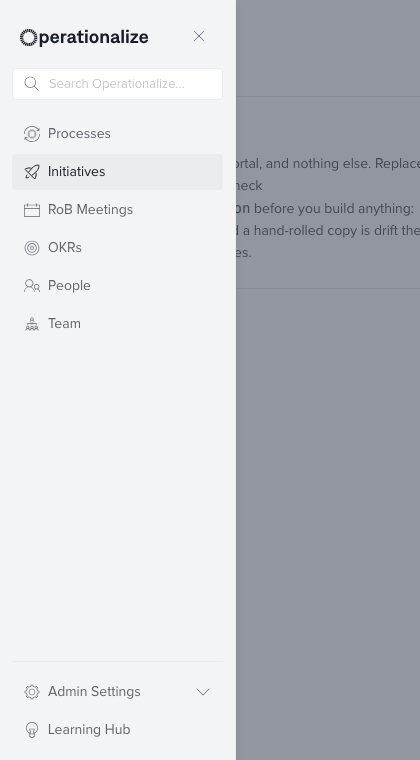
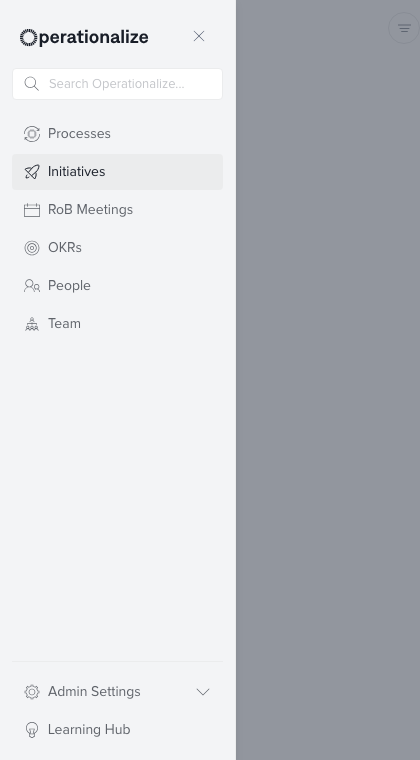
Scaffold stops at the shell; Markdown docs get a reader (#93)
The master prompt used to land a placeholder card in the content region,
and agents filled the space while waiting — the timezone widget came back
with invented names, numbers and rules. The template's content region is
now empty, and the prompt's step 2 says STOP: lint, report the path, and
wait for the feature to be described. Screenshots re-shot from a real
scaffold.

docs/read.html renders AGENTS.md, UXCopy.md and DESIGN.md as a readable
page (kit tokens, sticky TOC, copyable code blocks, .md links rewritten
to stay in the reader). Titled by file name. marked v12.0.2 is vendored
so the page needs no CDN. The home page's Build-with-it cards link to it
extensionless, because serve drops the query string on its .html redirect.

diff --git a/docs/read.html b/docs/read.html
@@ -1,0 +1,279 @@
+<!doctype html>
+<html lang="en">
+<head>
+  <meta charset="utf-8" />
+  <meta name="viewport" content="width=device-width, initial-scale=1" />
+  <title>Reader</title>
+  <link rel="stylesheet" href="../tokens.css" />
+  <link rel="stylesheet" href="../semantic.css" />
+  <link rel="stylesheet" href="../components.css" />
+  <style>
+    /* A reading view for the repo's .md files: read?doc=UXCopy.md.
+       The file stays the source; this page only renders it. One centred column
+       at reading width, a contents rail beside it on wide screens. */
+    body { background: var(--color-surface); }
+
+    .reader-bar {
+      position: sticky; top: 0; z-index: 2;
+      display: flex; align-items: center; justify-content: space-between; gap: var(--spacing-3);
+      padding: var(--spacing-3) var(--spacing-6);
+      background: var(--color-surface);
+      border-bottom: 1px solid var(--color-border);
+      font: var(--type-body-sm);
+    }
+    .crumbs { display: flex; align-items: center; gap: var(--spacing-2); min-width: 0; color: var(--color-text-subtle); }
+    .crumbs a { color: var(--color-text-subtle); text-decoration: none; }
+    .crumbs a:hover { color: var(--color-text); }
+    .crumbs .here { color: var(--color-text); white-space: nowrap; overflow: hidden; text-overflow: ellipsis; }
+    .raw { color: var(--color-text-subtle); text-decoration: none; white-space: nowrap; }
+    .raw:hover { color: var(--color-text); }
+
+    .reader {
+      display: grid;
+      grid-template-columns: minmax(0, 720px);
+      justify-content: center;
+      gap: var(--spacing-12);
+      padding: var(--spacing-12) var(--spacing-6) calc(var(--spacing-12) * 2);
+    }
+    @media (min-width: 1240px) {
+      .reader { grid-template-columns: minmax(0, 720px) 240px; }
+    }
+
+    /* ---- the document ---- */
+    .doc { min-width: 0; color: var(--color-text); font-family: var(--font-sans); font-size: 16px; line-height: 1.65; }
+    .doc > :first-child { margin-top: 0; }
+
+    .doc h1, .doc h2, .doc h3, .doc h4 { position: relative; font-weight: var(--font-weight-semibold); line-height: 1.25; scroll-margin-top: 72px; text-wrap: balance; }
+    .doc h1 { font-size: clamp(30px, 6vw, 40px); letter-spacing: -0.01em; margin: 0 0 var(--spacing-6); }
+    .doc h2 { font-size: 26px; margin: var(--spacing-12) 0 var(--spacing-3); padding-top: var(--spacing-2); }
+    .doc h3 { font-size: 20px; margin: var(--spacing-8) 0 var(--spacing-2); }
+    .doc h4 { font-size: 16px; margin: var(--spacing-6) 0 var(--spacing-2); }
+    .doc h1 + p { font-size: 18px; }
+
+    .anchor {
+      position: absolute; left: -1.1em; top: 0; padding-right: 0.3em;
+      color: var(--color-text-muted); text-decoration: none; font-weight: var(--font-weight-regular);
+      opacity: 0; transition: opacity var(--duration-fast) var(--ease);
+    }
+    .doc :is(h2, h3, h4):hover .anchor, .anchor:focus-visible { opacity: 1; }
+
+    .doc p { margin: 0 0 var(--spacing-3); }
+    .doc ul, .doc ol { margin: 0 0 var(--spacing-3); padding-left: 1.6em; }
+    .doc li { margin: var(--spacing-1) 0; padding-left: 0.2em; }
+    .doc li > ul, .doc li > ol { margin: var(--spacing-1) 0 0; }
+    .doc li::marker { color: var(--color-text-subtle); }
+
+    .doc a { color: inherit; text-decoration: underline; text-decoration-color: var(--color-border-strong); text-underline-offset: 3px; }
+    .doc a:hover { text-decoration-color: var(--color-text); }
+    .doc strong { font-weight: var(--font-weight-semibold); }
+
+    .doc code {
+      font-family: var(--font-mono); font-size: 0.86em;
+      background: var(--color-surface-muted); border-radius: var(--radius-sm);
+      padding: 0.15em 0.4em;
+    }
+
+    .code-block { position: relative; margin: var(--spacing-4) 0; }
+    .doc pre {
+      margin: 0; padding: var(--spacing-4) var(--spacing-6);
+      background: var(--color-bg); border: 1px solid var(--color-border); border-radius: var(--radius-md);
+      overflow-x: auto; font-size: 13.5px; line-height: 1.6;
+    }
+    .doc pre code { background: none; padding: 0; font-size: inherit; }
+    .copy {
+      position: absolute; top: var(--spacing-2); right: var(--spacing-2);
+      font: var(--type-body-xs); color: var(--color-text-subtle);
+      background: var(--color-surface); border: 1px solid var(--color-border); border-radius: var(--radius-sm);
+      padding: 2px var(--spacing-2); cursor: pointer;
+      opacity: 0; transition: opacity var(--duration-fast) var(--ease);
+    }
+    .code-block:hover .copy, .copy:focus-visible { opacity: 1; }
+
+    .doc blockquote {
+      margin: var(--spacing-4) 0; padding: var(--spacing-3) var(--spacing-4);
+      background: var(--color-bg); border-radius: var(--radius-md);
+      color: var(--color-text);
+    }
+    .doc blockquote > :last-child { margin-bottom: 0; }
+
+    .table-wrap { margin: var(--spacing-4) 0 var(--spacing-6); overflow-x: auto; }
+    .doc table { border-collapse: collapse; width: 100%; font-size: 14px; line-height: 1.5; }
+    .doc th, .doc td { border: 1px solid var(--color-border); padding: var(--spacing-2) var(--spacing-3); text-align: left; vertical-align: top; }
+    .doc th { background: var(--color-bg); font-weight: var(--font-weight-semibold); }
+
+    .doc hr { border: 0; border-top: 1px solid var(--color-border); margin: var(--spacing-8) 0; }
+    .doc img { max-width: 100%; border-radius: var(--radius-md); }
+
+    /* ---- contents rail ---- */
+    .toc { display: none; }
+    @media (min-width: 1240px) {
+      .toc { display: block; position: sticky; top: 88px; align-self: start; max-height: calc(100vh - 120px); overflow-y: auto; }
+    }
+    .toc-label { font: var(--type-body-xs-semibold); color: var(--color-text-subtle); text-transform: uppercase; letter-spacing: 0.06em; margin: 0 0 var(--spacing-3); }
+    .toc ol { list-style: none; margin: 0; padding: 0; border-left: 1px solid var(--color-border); }
+    .toc a {
+      display: block; padding: 3px 0 3px var(--spacing-3); margin-left: -1px;
+      border-left: 2px solid transparent;
+      font: var(--type-body-sm); color: var(--color-text-subtle); text-decoration: none;
+    }
+    .toc .lvl-3 a { padding-left: var(--spacing-6); font: var(--type-body-xs); }
+    .toc a:hover { color: var(--color-text); }
+    .toc a.is-active { color: var(--color-text); border-left-color: var(--color-text); }
+
+    .reader-note { color: var(--color-text-subtle); font: var(--type-body); }
+  </style>
+</head>
+<body>
+  <header class="reader-bar">
+    <nav class="crumbs" aria-label="Breadcrumb">
+      <a href="../index.html">designmd</a><span aria-hidden="true">/</span><span class="here" id="crumb">Loading…</span>
+    </nav>
+    <a class="raw" id="raw" href="#">View raw</a>
+  </header>
+
+  <main class="reader">
+    <article class="doc" id="doc"><p class="reader-note">Loading…</p></article>
+    <aside class="toc" id="toc" aria-label="On this page"></aside>
+  </main>
+
+  <script src="./vendor/marked.min.js"></script>
+  <script>
+  (function () {
+    var params = new URLSearchParams(location.search);
+    var doc = params.get('doc') || 'AGENTS.md';
+    var docEl = document.getElementById('doc');
+    var tocEl = document.getElementById('toc');
+    var root = new URL('../', location.href);
+
+    // Only .md files inside this folder, so the page cannot be pointed elsewhere.
+    if (!/^[\w.-]+(\/[\w.-]+)*\.md$/.test(doc) || doc.split('/').indexOf('..') !== -1) {
+      docEl.innerHTML = '<p class="reader-note">This page only opens .md files in designmd. Check the link, then try again.</p>';
+      document.getElementById('crumb').textContent = 'Not found';
+      return;
+    }
+
+    var src = new URL(doc, root);
+    document.getElementById('crumb').textContent = doc;
+    document.getElementById('raw').href = src.href;
+
+    fetch(src.href, { cache: 'no-cache' })
+      .then(function (r) { if (!r.ok) throw new Error(r.status); return r.text(); })
+      .then(render)
+      .catch(function () {
+        docEl.innerHTML = '';
+        var p = document.createElement('p');
+        p.className = 'reader-note';
+        p.textContent = doc + ' could not be loaded. Check the file exists, then reload the page.';
+        docEl.appendChild(p);
+      });
+
+    function slug(text, seen) {
+      var s = text.toLowerCase().trim().replace(/[^\w\s-]/g, '').replace(/\s+/g, '-');
+      var out = s, n = 1;
+      while (seen[out]) out = s + '-' + n++;
+      seen[out] = true;
+      return out;
+    }
+
+    function render(md) {
+      docEl.innerHTML = marked.parse(md, { gfm: true });
+
+      // The page is titled by its file, so it reads the same as the card that
+      // linked here and the name people say out loud.
+      var name = doc.split('/').pop();
+      var h1 = docEl.querySelector('h1');
+      if (!h1) {
+        h1 = document.createElement('h1');
+        docEl.insertBefore(h1, docEl.firstChild);
+      }
+      h1.textContent = name;
+      document.title = name;
+
+      // Links: another .md opens here too; anything else resolves against the file.
+      docEl.querySelectorAll('a[href]').forEach(function (a) {
+        var href = a.getAttribute('href');
+        if (/^(#|[a-z]+:)/i.test(href)) {
+          if (/^https?:/i.test(href)) { a.target = '_blank'; a.rel = 'noopener noreferrer'; }
+          return;
+        }
+        var url = new URL(href, src);
+        if (url.origin === root.origin && url.pathname.endsWith('.md') && url.pathname.indexOf(root.pathname) === 0) {
+          a.href = 'read?doc=' + url.pathname.slice(root.pathname.length) + url.hash;
+        } else {
+          a.href = url.href;
+        }
+      });
+      docEl.querySelectorAll('img[src]').forEach(function (img) {
+        img.src = new URL(img.getAttribute('src'), src).href;
+      });
+
+      // Tables scroll on their own; code blocks get a copy button.
+      docEl.querySelectorAll('table').forEach(function (t) {
+        var w = document.createElement('div');
+        w.className = 'table-wrap';
+        t.parentNode.insertBefore(w, t);
+        w.appendChild(t);
+      });
+      docEl.querySelectorAll('pre').forEach(function (pre) {
+        var w = document.createElement('div');
+        w.className = 'code-block';
+        pre.parentNode.insertBefore(w, pre);
+        w.appendChild(pre);
+        var b = document.createElement('button');
+        b.type = 'button'; b.className = 'copy'; b.textContent = 'Copy';
+        b.addEventListener('click', function () {
+          navigator.clipboard.writeText(pre.innerText).then(function () {
+            b.textContent = 'Copied';
+            setTimeout(function () { b.textContent = 'Copy'; }, 1400);
+          });
+        });
+        w.appendChild(b);
+      });
+
+      // Heading ids, hover anchors and the contents rail.
+      var seen = {};
+      var heads = Array.prototype.slice.call(docEl.querySelectorAll('h2, h3, h4'));
+      heads.concat(h1 ? [h1] : []).forEach(function (h) { h.id = slug(h.textContent, seen); });
+      heads.forEach(function (h) {
+        var a = document.createElement('a');
+        a.className = 'anchor'; a.href = '#' + h.id; a.textContent = '#';
+        a.setAttribute('aria-label', 'Link to this section');
+        h.insertBefore(a, h.firstChild);
+      });
+
+      var listed = heads.filter(function (h) { return h.tagName !== 'H4'; });
+      if (listed.length > 2) {
+        var label = document.createElement('p');
+        label.className = 'toc-label'; label.textContent = 'On this page';
+        var ol = document.createElement('ol');
+        listed.forEach(function (h) {
+          var li = document.createElement('li');
+          li.className = 'lvl-' + h.tagName.slice(1);
+          var a = document.createElement('a');
+          a.href = '#' + h.id;
+          a.textContent = h.textContent.replace(/^#/, '');
+          li.appendChild(a);
+          ol.appendChild(li);
+        });
+        tocEl.appendChild(label);
+        tocEl.appendChild(ol);
+
+        var links = tocEl.querySelectorAll('a');
+        var onScroll = function () {
+          var current = 0;
+          listed.forEach(function (h, i) { if (h.getBoundingClientRect().top < 120) current = i; });
+          links.forEach(function (a, i) { a.classList.toggle('is-active', i === current); });
+        };
+        addEventListener('scroll', onScroll, { passive: true });
+        onScroll();
+      }
+
+      if (location.hash) {
+        var target = document.getElementById(decodeURIComponent(location.hash.slice(1)));
+        if (target) target.scrollIntoView();
+      }
+    }
+  })();
+  </script>
+</body>
+</html>

diff --git a/docs/master-prompt.html b/docs/master-prompt.html
@@ -71,7 +71,7 @@
   <main class="page">
     <a class="back" href="../index.html"><svg class="icon icon-16"><use href="../icons.svg#i-chevron-left"/></svg> Design Library</a>
     <h1 class="h1">Master prompt</h1>
-    <p class="lede">A copy-paste prompt for getting started with this project. Hand it to a coding agent (Claude Code, Cursor, …) and it duplicates <code>designmd/template/</code> into a new feature prototype, resolves the sidenav and lists it &mdash; then builds the feature into the shell.</p>
+    <p class="lede">A copy-paste prompt for getting started with this project. Hand it to a coding agent (Claude Code, Cursor, …) and it duplicates <code>designmd/template/</code> into a new feature prototype, resolves the sidenav and lists it &mdash; then stops. You get the top bar, side nav and page head with an empty content area, and you describe the feature from there.</p>
 
     <p class="body-sm" style="color: var(--color-text-muted); margin: 0 0 var(--spacing-8)">
       Nothing here is generated from memory. <code>template/index.html</code> is a real file that
@@ -85,7 +85,7 @@
       <li>Copy the prompt below.</li>
       <li>Replace <code>{{FEATURE_NAME}}</code> (kebab-case) with your feature's folder name &mdash; or leave it and the agent will ask.</li>
       <li>Paste it into your agent, run from the folder that contains <code>designmd/</code> and <code>features/</code> as siblings. This prompt is written for that Toptal layout; on a standalone clone, pass <code>--into &lt;path&gt;</code> to the scaffolder.</li>
-      <li>Iterate locally, then lint, thumbnail and inline as the prompt describes.</li>
+      <li>Once the shell is there, describe the feature to the agent. Then lint, thumbnail and inline as the prompt describes.</li>
     </ol>
 
     <p class="body-sm" style="color: var(--color-text-muted); margin: 0 0 var(--spacing-8)">
@@ -103,8 +103,8 @@
 
     <figure class="shot">
       <img src="./assets/template-result.png" loading="lazy"
-           alt="A scaffolded prototype: dark top bar with the Operationalize logo, search and account avatar; a 236px side nav with Initiatives marked active; a page head reading Billing portal with Filter and New buttons; and a placeholder card titled Content slot." />
-      <figcaption>The shell at desktop width. Everything but the card is yours already.</figcaption>
+           alt="A scaffolded prototype: dark top bar with the Operationalize logo, search and account avatar; a 236px side nav with Initiatives marked active; a page head reading Billing portal with Filter and New buttons; and an empty content area below it." />
+      <figcaption>The shell at desktop width. The content area is empty until you describe the feature.</figcaption>
     </figure>
 
     <div class="result-split">
@@ -118,7 +118,7 @@
         <li><b>Top bar</b> &mdash; brand, search, account, and the collapsed layout's hamburger, title and CTA.</li>
         <li><b>Side nav</b> with the product's real sections and your one marked active, plus the off-canvas panel chrome.</li>
         <li><b>Page head</b> &mdash; a title and the actions. No invented subtitle.</li>
-        <li><b>A shell that fills the window</b> and a content region that scrolls, with no CSS written in the page.</li>
+        <li><b>A shell that fills the window</b> and a content region that scrolls, with no CSS written in the page. The region is empty: no placeholder, no sample data.</li>
         <li><b>The handlers</b> the kit does not ship: modals, drawers, Escape, dropdowns, tabs, selects, the nav rail and the hamburger.</li>
         <li><b>A card in <code>features/index.html</code></b> and a <code>status.json</code> entry, so the feature is listed from minute one.</li>
       </ul>
@@ -157,7 +157,7 @@ CONTEXT
 - Prototypes live at `features/&lt;feature-name&gt;/index.html` — one folder per feature,
   kebab-case, the file is always named `index.html`.
 
-TASK — scaffold `features/{{FEATURE_NAME}}/index.html`, then build into it
+TASK — scaffold `features/{{FEATURE_NAME}}/index.html`, and nothing else
 
 1. DO NOT WRITE THE SHELL BY HAND. Duplicate the template. From `designmd/`, run
    one of these, using my two answers above:
@@ -182,8 +182,16 @@ TASK — scaffold `features/{{FEATURE_NAME}}/index.html`, then build into it
    should have, fix `designmd/template/index.html` so the next one inherits it —
    never patch only your copy.
 
-2. Build the feature into the content region, replacing the placeholder `.card`.
-   Leave the shell alone unless the feature genuinely needs it changed.
+2. STOP. The result is the top bar, the side nav and the page head, and the
+   content region stays EMPTY. Do not build the feature yet, and do not fill
+   the space while you wait:
+   - no placeholder cards, sample data, mock widgets, charts or tables
+   - no page-head subtitle, and no actions beyond the ones the template ships
+   - no names, numbers or product rules you made up. What a thing is called
+     and how the product behaves come from the test oracle, and I haven't
+     described the feature yet
+   Run `python3 lint.py ../features/{{FEATURE_NAME}}/index.html`, tell me the
+   file path, and wait for me to describe what goes in the content region.
 
 RULES
 - CHECK THE SYSTEM BEFORE YOU BUILD. Look in `designmd/dist/kit.json` for the

diff --git a/index.html b/index.html
@@ -72,15 +72,15 @@
 
     <h2 class="h3" style="margin: var(--spacing-10) 0 var(--spacing-3)">Build with it</h2>
     <section class="links" style="margin-top: 0">
-      <a class="card" href="./AGENTS.md">
+      <a class="card" href="./docs/read?doc=AGENTS.md">
         <h3 class="card-title">AGENTS.md — the rules <span class="arrow">→</span></h3>
         <p class="card-body">Start here, human or agent. The rules, the traps and how to build and check a prototype, in about 2,200 tokens. Cursor, Copilot, Windsurf and Cline each get a generated copy at the path they look for.</p>
       </a>
-      <a class="card" href="./UXCopy.md">
+      <a class="card" href="./docs/read?doc=UXCopy.md">
         <h3 class="card-title">UXCopy.md — the words <span class="arrow">→</span></h3>
         <p class="card-body">How copy is written, not what things are called. Toptal's BASE voice and UX content guide, Save vs Submit, sentence case, dates as <code>Oct 3, 2026</code>, and which of toast, alert, modal or field error a message belongs in. Read it before writing any user-facing string.</p>
       </a>
-      <a class="card" href="./DESIGN.md">
+      <a class="card" href="./docs/read?doc=DESIGN.md">
         <h3 class="card-title">DESIGN.md — the full written system <span class="arrow">→</span></h3>
         <p class="card-body">Architecture, colour roles, typography, component shortcodes, workflow rules. About 15k tokens — read the section you need, not the file.</p>
       </a>

diff --git a/template/index.html b/template/index.html
@@ -114,11 +114,10 @@
         </div>
       </div>
 
-      <!-- CONTENT — replace everything below with the feature. -->
-      <article class="card">
-        <h3 class="card-title">Content slot</h3>
-        <p class="card-body">This is the shell for {{FEATURE_TITLE}}, and nothing else. Replace this card with the feature. Check <code>designmd/dist/kit.json</code> before you build anything: most of it already exists, and a hand-rolled copy is drift the moment the real one changes.</p>
-      </article>
+      <!-- CONTENT — empty on purpose. A scaffold is the shell and nothing else.
+           Anything put here before the feature has been described is a guess,
+           and a guess on screen reads as a decision. The feature goes here once
+           someone has said what it is, built from designmd/dist/kit.json. -->
 
     </main>
   </div>
